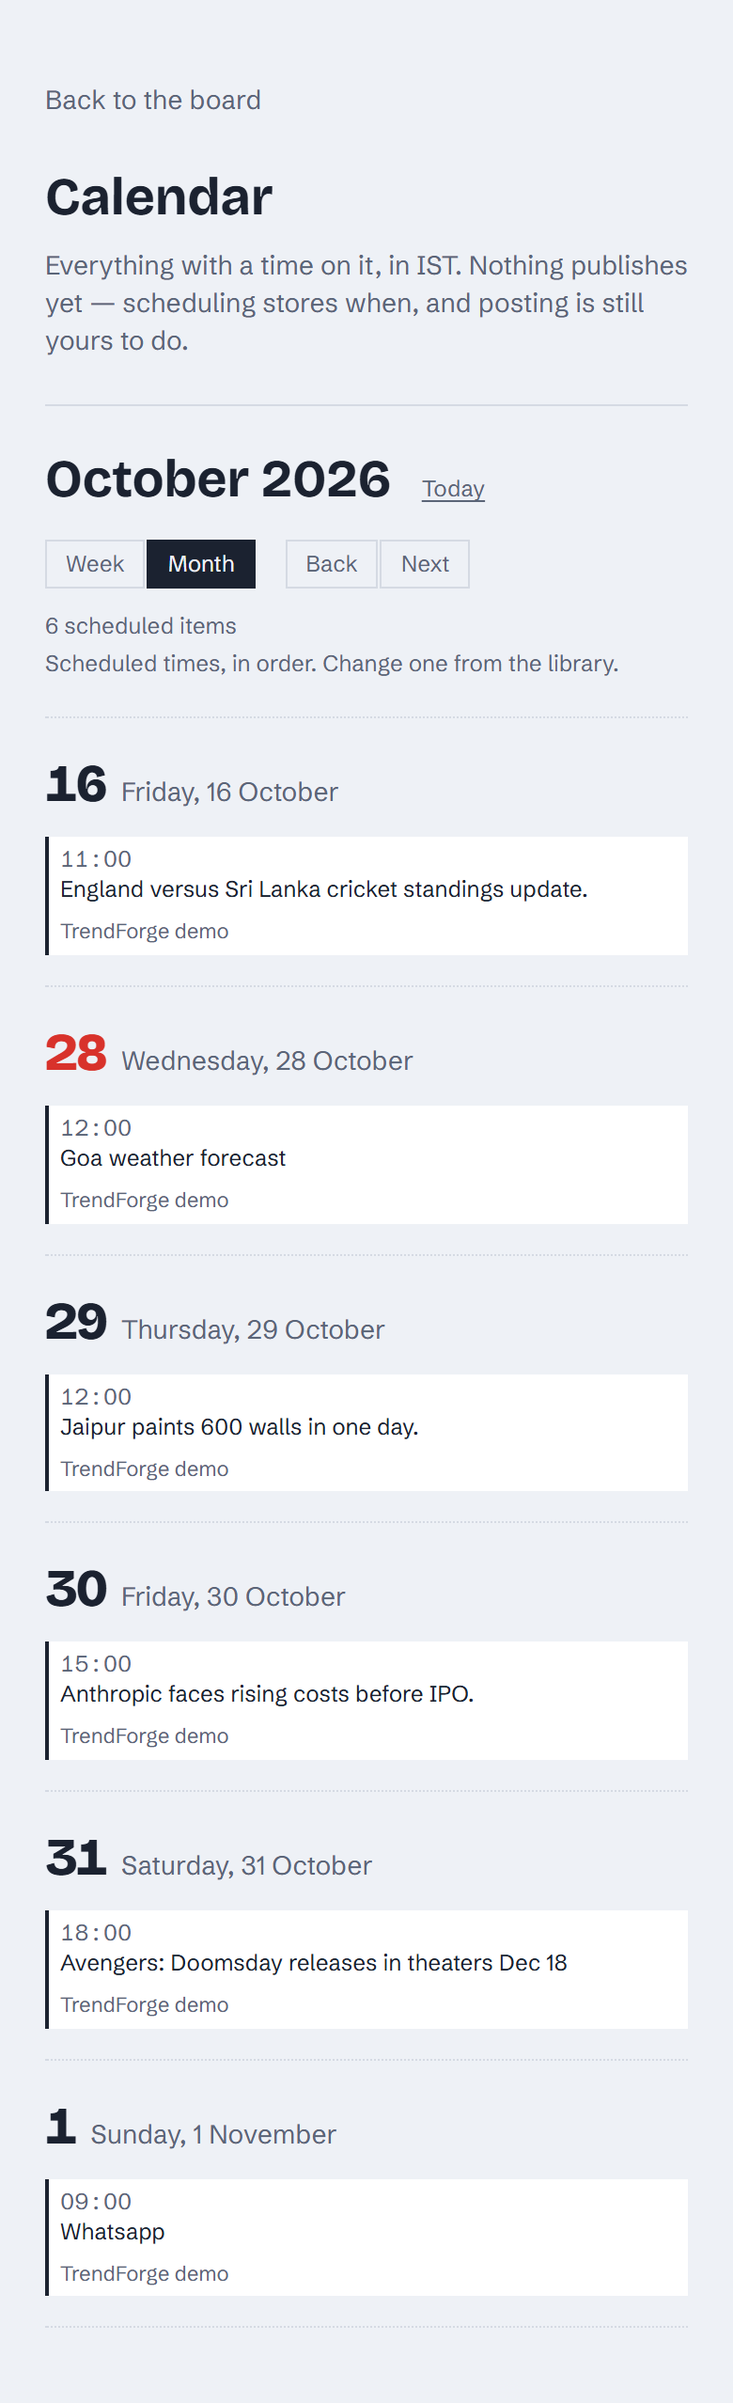
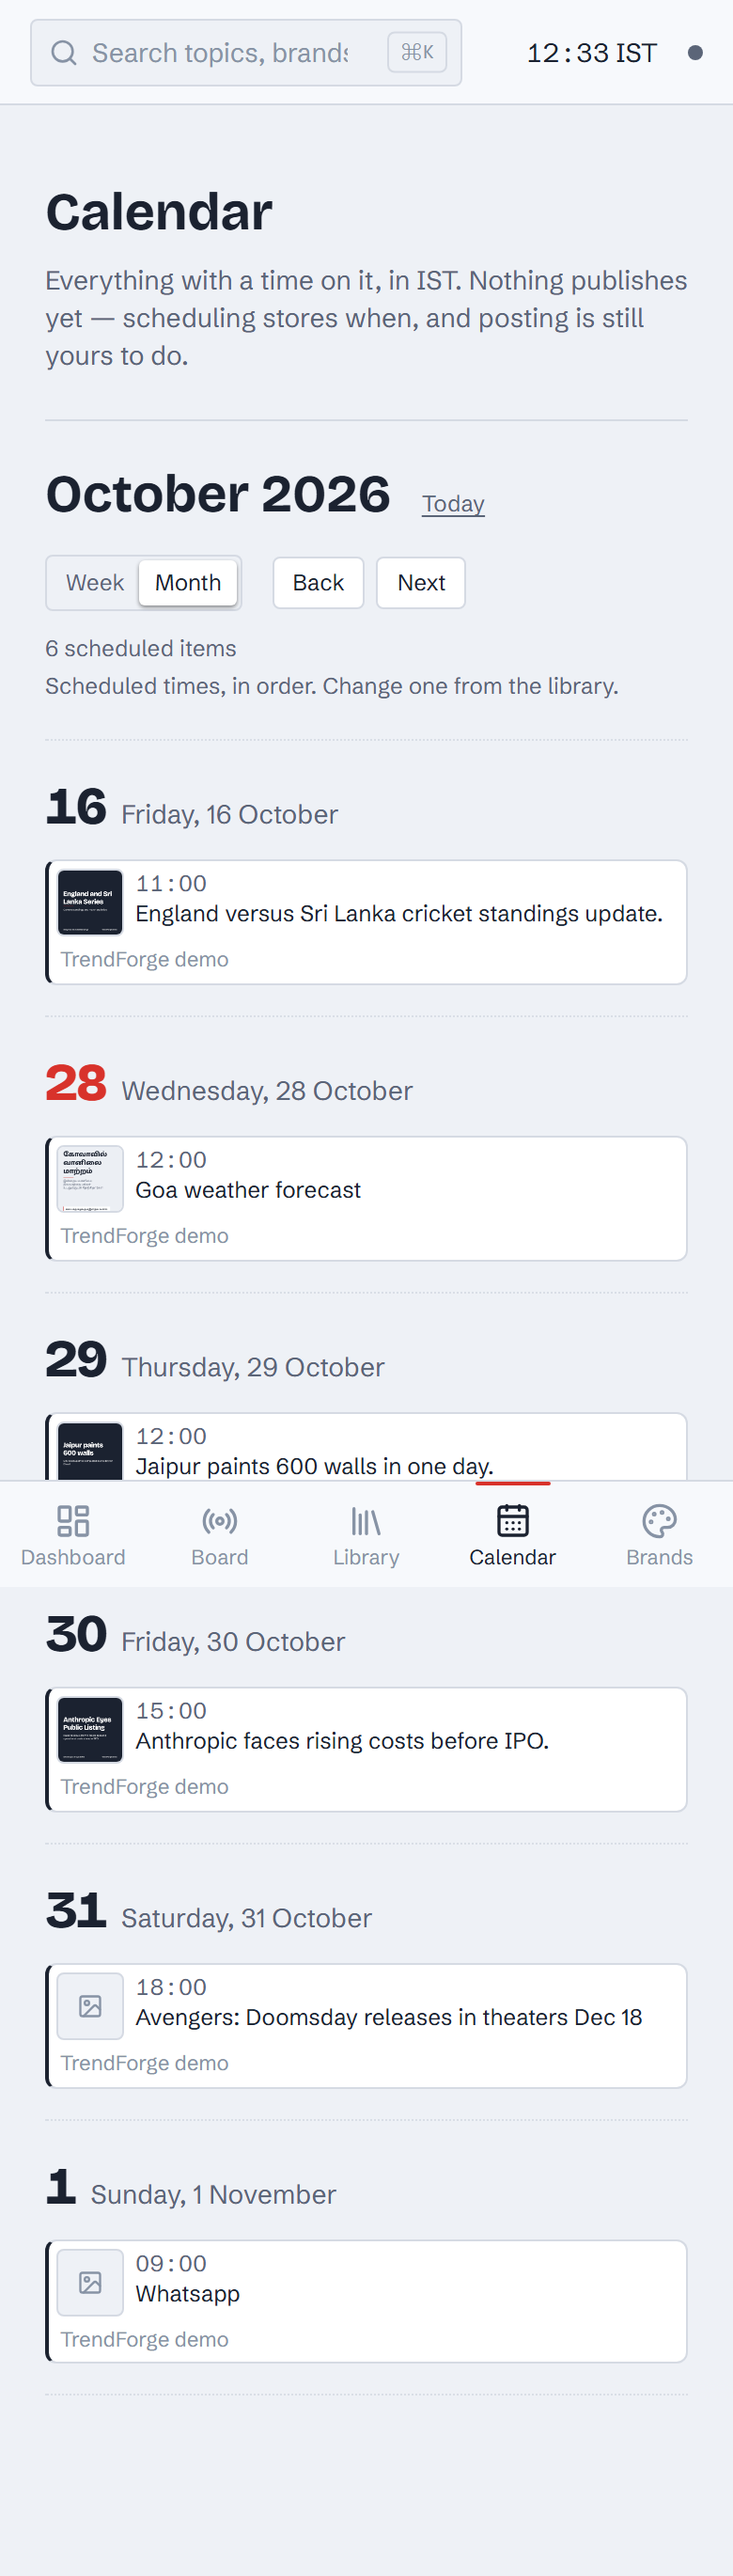
design(calendar): items as cards, and a caption you can read without opening
Each scheduled item carries its poster now, which is how you tell two
posts for the same brand apart at 150px wide.

Hovering one shows the caption in a popover beside the grid. A day cell is
too narrow for more than two clamped lines, so the commonest question on
this page — "which post is this" — could not be answered from the grid at
all. The popover is deliberately inert: pointer-events off, nothing
clickable in it. It exists so you can decide whether to drag, not so you
can act inside it, and anything interactive there would swallow the drag
that starts underneath.

Today is a ground as well as a chilli numeral. On a 42-cell month grid one
coloured glyph is easy to miss.

The view toggle and the step buttons move onto the shared controls. That
broke the calendar smoke, which looked for a button named exactly 'week' —
the old toggle rendered a lowercase label and capitalised it in CSS, so
the accessible name was never what the screen said. The segmented control
carries the real word. All seven smoke checks pass again, including both
ways of rescheduling.

diff --git a/apps/web/src/components/Calendar.tsx b/apps/web/src/components/Calendar.tsx
@@ -1,10 +1,11 @@
 'use client'
 
 import type { LibraryItem } from '@trendforge/types'
+import { Film, Image as ImageIcon } from 'lucide-react'
 import Link from 'next/link'
 import { useCallback, useEffect, useMemo, useRef, useState } from 'react'
 
-import { Empty, SectionLabel, cx } from '@/components/ui'
+import { Button, Card, Empty, SectionLabel, Segmented, cx } from '@/components/ui'
 import {
   type CalendarView,
   WEEKDAYS,
@@ -141,47 +142,37 @@ export function Calendar({ initialItems }: { initialItems: LibraryItem[] }) {
         </div>
 
         <div className="flex items-center gap-4">
-          <div className="flex gap-px" role="group" aria-label="View">
-            {(['week', 'month'] as const).map((option) => (
-              <button
-                key={option}
-                type="button"
-                aria-pressed={view === option}
-                onClick={() => {
-                  setView(option)
-                  setAnchor((current) =>
-                    option === 'week' ? startOfWeek(current) : startOfMonth(current),
-                  )
-                }}
-                className={cx(
-                  'border px-2.5 py-1 text-xs capitalize',
-                  view === option
-                    ? 'border-ink bg-ink text-page'
-                    : 'border-border text-slate hover:text-ink',
-                )}
-              >
-                {option}
-              </button>
-            ))}
-          </div>
+          <Segmented
+            label="View"
+            size="sm"
+            value={view}
+            onChange={(option) => {
+              setView(option)
+              setAnchor((current) =>
+                option === 'week' ? startOfWeek(current) : startOfMonth(current),
+              )
+            }}
+            options={[
+              { value: 'week' as const, label: 'Week' },
+              { value: 'month' as const, label: 'Month' },
+            ]}
+          />
 
-          <div className="flex gap-px">
-            <button
-              type="button"
+          <div className="flex gap-1.5">
+            <Button
+              size="sm"
               onClick={() => step(-1)}
               aria-label={view === 'week' ? 'Previous week' : 'Previous month'}
-              className="border border-border px-2.5 py-1 text-xs text-slate hover:text-ink"
             >
               Back
-            </button>
-            <button
-              type="button"
+            </Button>
+            <Button
+              size="sm"
               onClick={() => step(1)}
               aria-label={view === 'week' ? 'Next week' : 'Next month'}
-              className="border border-border px-2.5 py-1 text-xs text-slate hover:text-ink"
             >
               Next
-            </button>
+            </Button>
           </div>
         </div>
       </div>
@@ -307,6 +298,9 @@ function Grid({
                 'min-h-28 border-r border-b border-border p-1.5 last:border-r-0',
                 view === 'week' && 'min-h-56',
                 outside && 'opacity-45',
+                // Today is a ground, not just a coloured numeral: on a
+                // 42-cell month grid one chilli glyph is easy to miss.
+                day === now && 'bg-chilli/5',
                 over === day && 'bg-row-active',
               )}
             >
@@ -408,35 +402,99 @@ function Item({
   }
 
   return (
-    <li className="border-l-2 border-ink bg-card">
+    <li className="group relative">
+      <Card className="overflow-hidden border-l-2 border-l-ink transition-[border-color] duration-150 focus-within:border-border-hover hover:border-border-hover">
+        {/*
+         * A real button, not a div with role="button". It was the latter
+         * first, with the brand-name link inside it — which is invalid (a
+         * link inside a button is not reachable as either) and which cost
+         * the element its native keyboard behaviour. The link is a sibling.
+         */}
+        <button
+          type="button"
+          draggable
+          onDragStart={(e) => {
+            e.dataTransfer.setData('text/plain', String(item.id))
+            e.dataTransfer.effectAllowed = 'move'
+          }}
+          onKeyDown={onKeyDown}
+          aria-label={`${title}, ${time}. Use the arrow keys to move it.`}
+          className="flex w-full cursor-grab gap-1.5 p-1 text-left active:cursor-grabbing"
+        >
+          <Thumb item={item} />
+          <span className="min-w-0 flex-1">
+            <span className="num block text-xs text-slate">{time}</span>
+            <span className="line-clamp-2 block text-xs text-ink">{title}</span>
+          </span>
+        </button>
+        <Link
+          href={`/board?region=${item.region_code}&topic=${item.trend_id}`}
+          className="block truncate px-1.5 pb-1 text-[11px] text-muted hover:text-ink"
+          // Or dragging the item would start a link drag instead.
+          draggable={false}
+        >
+          {item.brand_name}
+        </Link>
+      </Card>
+
       {/*
-       * A real button, not a div with role="button". It was the latter
-       * first, with the brand-name link inside it — which is invalid (a
-       * link inside a button is not reachable as either) and which cost the
-       * element its native keyboard behaviour. The link is now a sibling.
+       * The caption, on hover.
+       *
+       * A day cell is 150px wide and a title is clamped to two lines, so
+       * the commonest question on this page — "which post is this" —
+       * cannot be answered from the grid alone. This is the answer, in a
+       * popover that is not clickable and does not move anything: it
+       * exists so you can decide whether to drag, not so you can act in it.
+       *
+       * Pointer-events are off so it never swallows the drag that starts
+       * underneath it.
        */}
-      <button
-        type="button"
-        draggable
-        onDragStart={(e) => {
-          e.dataTransfer.setData('text/plain', String(item.id))
-          e.dataTransfer.effectAllowed = 'move'
-        }}
-        onKeyDown={onKeyDown}
-        aria-label={`${title}, ${time}. Use the arrow keys to move it.`}
-        className="w-full cursor-grab px-1.5 pt-1 text-left active:cursor-grabbing"
+      <div
+        role="tooltip"
+        className={cx(
+          'pointer-events-none absolute top-0 left-full z-20 ml-2 hidden w-60 rounded-md',
+          'border border-border bg-overlay p-2.5 shadow-overlay',
+          'desk:group-hover:block desk:group-focus-within:block',
+        )}
       >
-        <span className="num block text-xs text-slate">{time}</span>
-        <span className="line-clamp-2 block text-xs text-ink">{title}</span>
-      </button>
-      <Link
-        href={`/board?region=${item.region_code}&topic=${item.trend_id}`}
-        className="block truncate px-1.5 pb-1 text-[11px] text-slate hover:text-ink"
-        // Or dragging the item would start a link drag instead.
-        draggable={false}
-      >
-        {item.brand_name}
-      </Link>
+        <p className="text-xs text-ink">{title}</p>
+        {item.hook && item.hook !== item.topic ? (
+          <p className="mt-1 text-xs text-slate">{item.topic}</p>
+        ) : null}
+        <p className="mt-1.5 flex flex-wrap gap-x-2 text-xs text-muted">
+          <span>{item.brand_name}</span>
+          <span>{item.region_name}</span>
+          <span className="capitalize">{item.language}</span>
+          <span>{item.kind === 'reel' ? 'Reel' : 'Post'}</span>
+        </p>
+      </div>
     </li>
+  )
+}
+
+/** The poster, small. Always a still — a <video> draws nothing until it
+ *  has fetched a frame, so the API hands over a reel's poster instead. */
+function Thumb({ item }: { item: LibraryItem }) {
+  if (!item.preview_url) {
+    return (
+      <span className="flex size-9 shrink-0 items-center justify-center rounded-sm border border-border bg-page text-muted">
+        {item.kind === 'reel' ? (
+          <Film aria-hidden="true" className="size-3.5" strokeWidth={2} />
+        ) : (
+          <ImageIcon aria-hidden="true" className="size-3.5" strokeWidth={2} />
+        )}
+      </span>
+    )
+  }
+  return (
+    /* A MinIO URL on a published port, which next/image cannot be
+       configured for without pinning the dev host into next.config. */
+    // eslint-disable-next-line @next/next/no-img-element
+    <img
+      src={item.preview_url}
+      alt=""
+      loading="lazy"
+      className="size-9 shrink-0 rounded-sm border border-border object-cover"
+    />
   )
 }

diff --git a/apps/web/scripts/smoke-calendar.ts b/apps/web/scripts/smoke-calendar.ts
@@ -99,13 +99,13 @@ async function open(page: Page, title: string): Promise<void> {
     page.locator('[aria-label="View"] [aria-pressed="true"]').innerText().catch(() => '')
 
   for (let attempt = 0; attempt < 30; attempt++) {
-    await page.getByRole('button', { name: 'week', exact: true }).click()
+    await page.getByRole('button', { name: 'Week', exact: true }).click()
     await page.waitForTimeout(500)
     if ((await pressed()).toLowerCase() === 'week') break
     if (attempt === 29) throw new Error('the calendar never hydrated')
   }
 
-  await page.getByRole('button', { name: 'month', exact: true }).click()
+  await page.getByRole('button', { name: 'Month', exact: true }).click()
   await page.waitForSelector(`text=${title}`, { timeout: 30_000 })
 }
 
@@ -161,7 +161,7 @@ async function main(): Promise<void> {
     check(announced.length > 0, `the move is announced ("${announced.slice(0, 40)}…")`)
 
     // ── week view ───────────────────────────────────────────────────────
-    await page.getByRole('button', { name: 'week', exact: true }).click()
+    await page.getByRole('button', { name: 'Week', exact: true }).click()
     await page.waitForTimeout(1_500)
     check(
       await page.getByText(title, { exact: false }).first().isVisible(),

diff --git a/apps/web/screenshots/README.md b/apps/web/screenshots/README.md
@@ -18,6 +18,8 @@ Captured at 2x, locale en-IN, timezone Asia/Kolkata.
 - `library-*` — every generated post and reel, filtered.
 - `calendar-*` — scheduled items; a grid at 1440px and an agenda at 390px.
 
-## Captured 1 shot this run
+## Captured 3 shots this run
 
-- `brands-1440-light.png` — 1440px
+- `calendar-month-1440-light.png` — 1440px
+- `calendar-month-1440-dark.png` — 1440px
+- `calendar-390-light.png` — 390px
